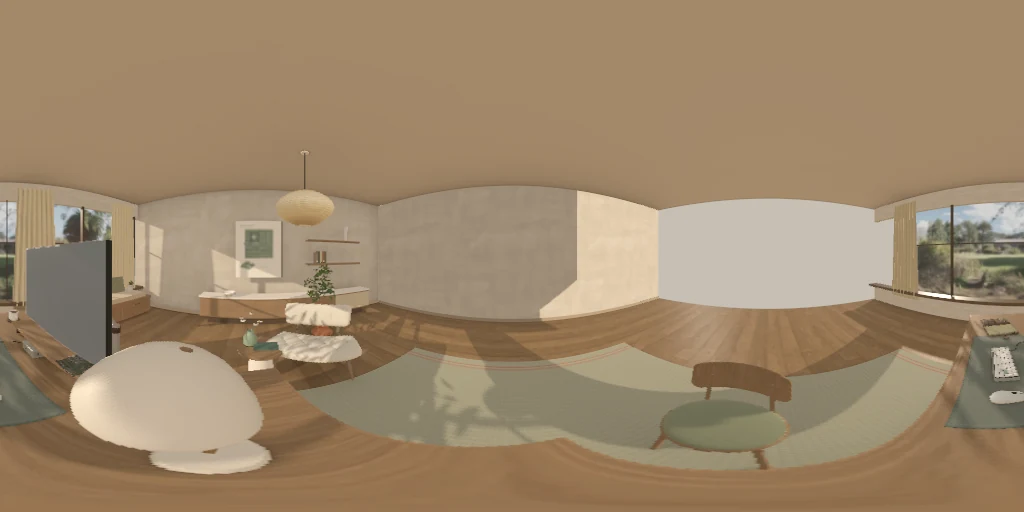
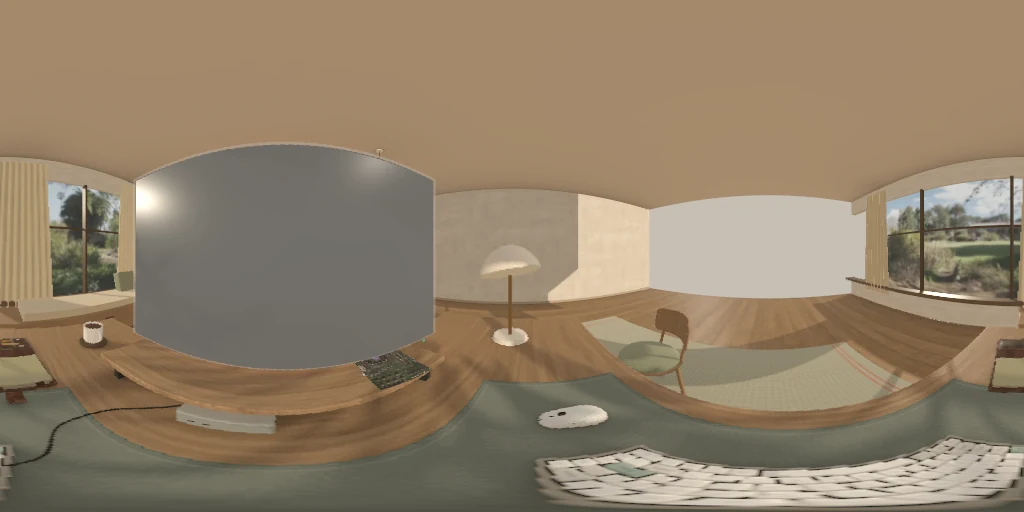
Recompose the study entrance around the desk for landscape and portrait viewing

diff --git a/site/lab.js b/site/lab.js
@@ -376,9 +376,11 @@ async function initRoom() {
       renderer.render(scene, camera);
     }
     function entrance() {
-      const portrait = camera.aspect < .82;
-      deskShot.position.set(portrait ? -.39 : .42, portrait ? 1.51 : 1.62, portrait ? 2.14 : 1.83);
-      deskShot.lookAt(portrait ? -.97 : -.64, portrait ? 1.22 : 1.17, -.46);
+      // In portrait, frame the screen and keys together; open the shot toward the reading chair as space permits.
+      const wide = THREE.MathUtils.smoothstep(camera.aspect, .72, 1.45);
+      const mix = (narrow, landscape) => THREE.MathUtils.lerp(narrow, landscape, wide);
+      deskShot.position.set(mix(-.19,.32), mix(1.56,1.53), mix(1.58,1.89));
+      deskShot.lookAt(mix(-.74,-.42), mix(1.13,1.23), -.66);
       return { position: deskShot.position.clone(), orientation: deskShot.quaternion.clone() };
     }
     function fitMonitor() {
@@ -394,23 +396,21 @@ async function initRoom() {
       camera.quaternion.copy(entryOrientation).multiply(new THREE.Quaternion().setFromEuler(motion.set(pitch, yaw, 0)));
       draw();
     }
-    function reset() {
+    function reset(keepLook = false) {
       const { position, orientation } = entrance();
-      yaw = 0;
-      pitch = 0;
+      if (!keepLook) yaw = pitch = 0;
       camera.position.copy(position);
-      camera.quaternion.copy(orientation);
       entryOrientation.copy(orientation);
-      draw();
+      lookAround(0, 0);
     }
     function resize() {
       const w = canvas.clientWidth, h = canvas.clientHeight;
       if (!w || !h) return;
       camera.aspect = w / h;
-      camera.fov = camera.aspect < .82 ? 57 : 45;
+      camera.fov = THREE.MathUtils.lerp(57,42,THREE.MathUtils.smoothstep(camera.aspect,.72,1.45));
       camera.updateProjectionMatrix();
       renderer.setSize(w, h, false);
-      if (!flying && !yaw && !pitch && !document.body.classList.contains('paper-active')) reset();
+      if (!flying && !document.body.classList.contains('paper-active')) reset(true);
       else draw();
     }
     function move(pose, duration, onProgress, onComplete) {

diff --git a/site/room.js b/site/room.js
@@ -265,7 +265,7 @@ export function buildHome(previewUrl, onUpdate, lifecycle = {}) {
     shadow.rotation.x = -Math.PI/2;
     shadow.castShadow = shadow.receiveShadow = false;
   }
-  contactShadow(-.86,.013,.03,2.85,1.4,.42);
+
   contactShadow(.55,.007,-1.63,1.32,1.16,.68);
   contactShadow(1.03,.005,-2.65,.95,.82,.72);
 
@@ -297,7 +297,7 @@ export function buildHome(previewUrl, onUpdate, lifecycle = {}) {
   rounded(.24, .026, .15, .05, .462, .035, sage, table);
 
   // Pleated paper glows from within at night. The lathed ribs stay in silhouette in daylight.
-  const pendant = group(.56,2.11,-2.02);
+  const pendant = group(.89,2.11,-2.02);
   const profile = [];
   for (let i=0;i<=160;i++) {
     const t=i/160, rib=Math.pow(.5+.5*Math.cos(2*Math.PI*t*20),5);
@@ -385,8 +385,9 @@ export function buildHome(previewUrl, onUpdate, lifecycle = {}) {
   placeModel('./media/study/potted_plant_01.glb',scene,1.03,.014,-2.65,1.33,-.50);
 
   // ==================== HERO ARCHITECT STUDIO DESK ====================
-  const desk = group(-.86, 0, -.07);
-  desk.rotation.y=.23;
+  const desk = group(-.66, 0, -.42);
+  desk.rotation.y=-.11;
+  contactShadow(0,.013,.10,2.85,1.4,.42,desk);
   // Tabletop + subtle walnut apron frame underneath
   rounded(2.02, .058, .94, 0, .775, 0, paleOak, desk, .018);
   const topGeometry = new THREE.PlaneGeometry(1.997,.917);
